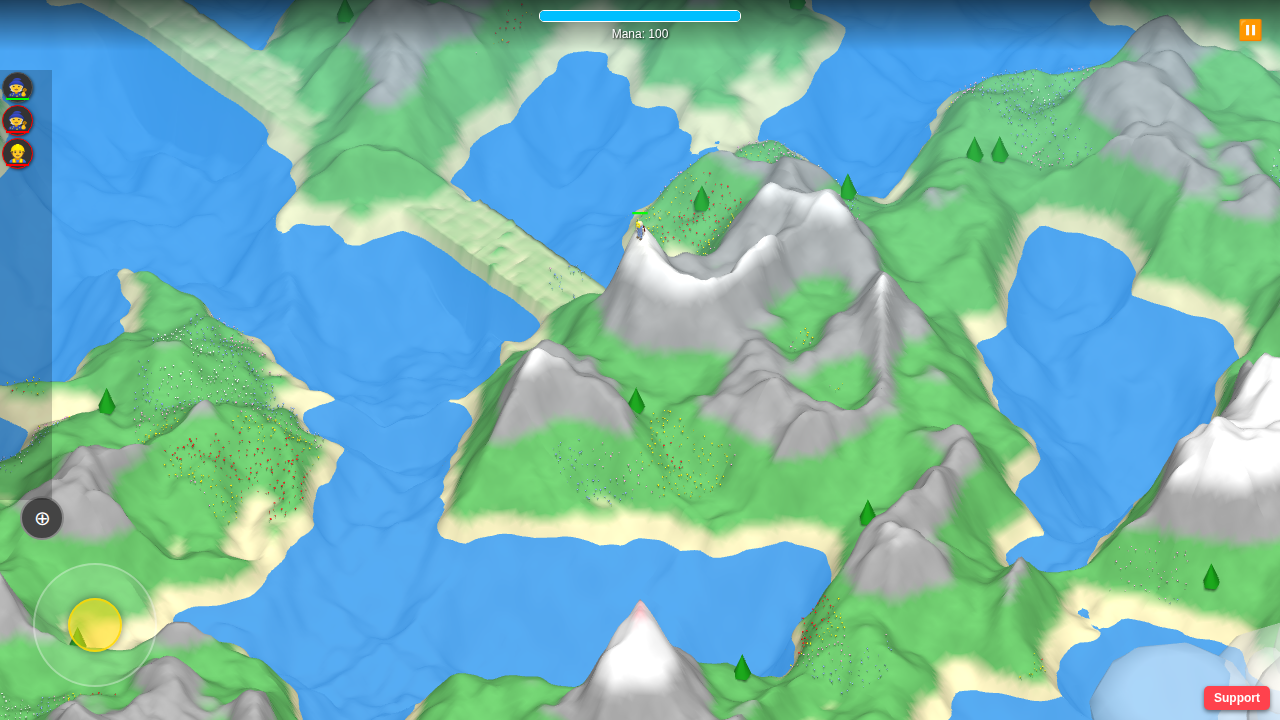
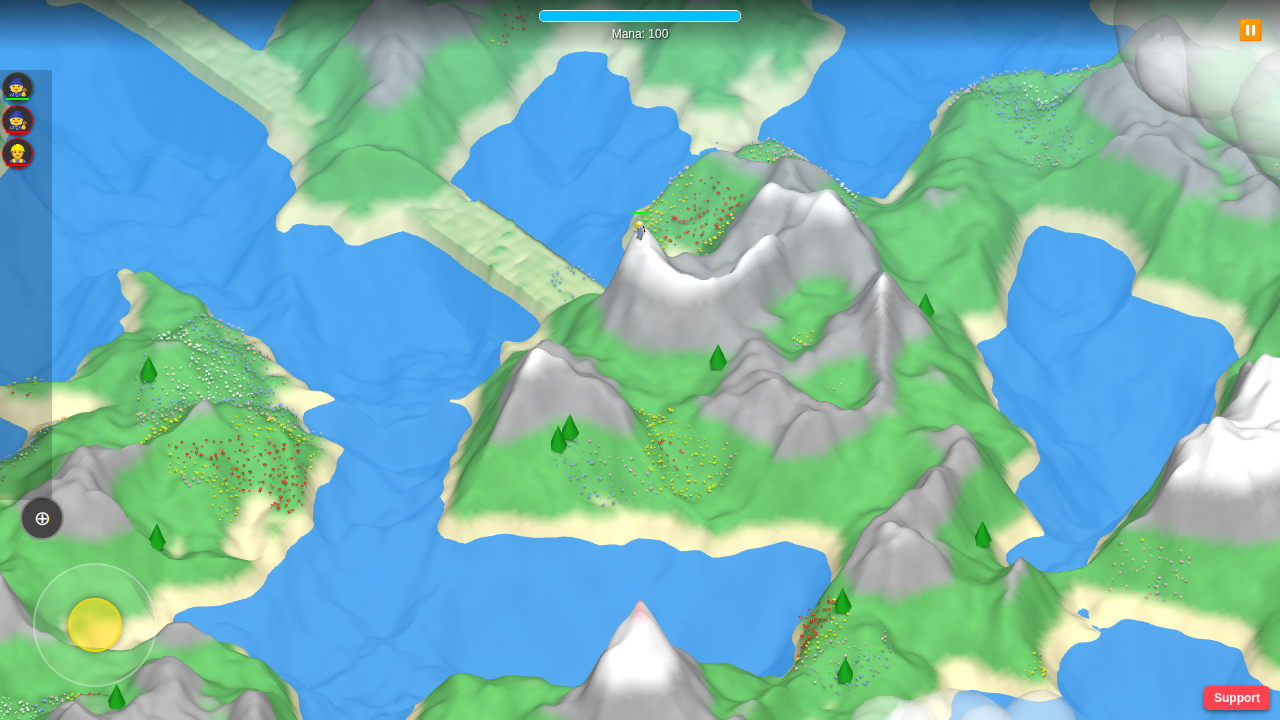
Improve flower visuals with realistic instancing
- Added `flowerCenter` geometry and material (yellow).
- Replaced the basic petal sphere with multiple fanned-out box petals.
- Updated `createChunk` to compose flowers using separate `InstancedMesh`es for stems, centers, and 5 distinct petals arranged radially.
- Updated `updateChunkDecorations` to calculate and apply matrices correctly for the new multi-part structure, including dynamic matrix application during runtime terrain changes.
- Ensured wind shaders apply uniformly across the entire flower construct.

diff --git a/PopulateTheRebeginning.html b/PopulateTheRebeginning.html
@@ -1108,7 +1108,8 @@ const AssetCache = {
         shield: new THREE.CylinderGeometry(0.25, 0.25, 0.05, 8),
         tool: new THREE.BoxGeometry(0.05, 0.4, 0.05),
         flowerStem: new THREE.CylinderGeometry(0.02, 0.02, 0.4, 4),
-        flowerPetal: new THREE.SphereGeometry(0.08, 4, 4)
+        flowerCenter: new THREE.SphereGeometry(0.04, 6, 6),
+        flowerPetal: new THREE.BoxGeometry(0.06, 0.02, 0.12)
     },
     mats: {
         skin: new THREE.MeshStandardMaterial({color: COLORS.skin, roughness: 0.7, metalness: 0.1}),
@@ -1122,7 +1123,8 @@ const AssetCache = {
         hpRed: new THREE.MeshBasicMaterial({color: 0xFF0000}),
         selectRing: new THREE.MeshBasicMaterial({color: 0x00FF00, side: THREE.DoubleSide}),
         marker: new THREE.MeshBasicMaterial({color: 0xFF0000}),
-        flowerStem: new THREE.MeshStandardMaterial({color: 0x228B22, roughness: 0.8, metalness: 0.1})
+        flowerStem: new THREE.MeshStandardMaterial({color: 0x228B22, roughness: 0.8, metalness: 0.1}),
+        flowerCenter: new THREE.MeshStandardMaterial({color: 0xFFFF00, roughness: 0.8, metalness: 0.1})
     }
 };
 
@@ -1136,6 +1138,7 @@ const FlowerMaterials = [
 
 AssetCache.mats.flowerPetalBase = FlowerMaterials[0].clone();
 AssetCache.mats.flowerPetalBase.color.setHex(0xffffff);
+AssetCache.geos.flowerPetal.translate(0, 0, 0.08);
 
 function addWindShader(material) {
     material.onBeforeCompile = function(shader) {
@@ -1165,6 +1168,7 @@ function addWindShader(material) {
 }
 
 addWindShader(AssetCache.mats.flowerStem);
+addWindShader(AssetCache.mats.flowerCenter);
 addWindShader(AssetCache.mats.flowerPetalBase);
 
 // --- js/utils.js ---
@@ -1718,18 +1722,24 @@ function updateChunkDecorations(chunk, cx, cz) {
     if (chunk.userData.flowers) {
         const flowers = chunk.userData.flowers;
         // Check if it's using the optimized structure or old array
-        if (flowers.data && flowers.stems && flowers.petals) {
+        if (flowers.data && flowers.stems && flowers.centers && flowers.petals) {
             const dataList = flowers.data;
             const stems = flowers.stems;
+            const centers = flowers.centers;
             const petals = flowers.petals;
+            const petalsPerFlower = flowers.petalsPerFlower || 5;
 
             const dummy = new THREE.Object3D();
             const stemDummy = new THREE.Object3D();
+            const centerDummy = new THREE.Object3D();
             const petalDummy = new THREE.Object3D();
+
             const stemMatrix = new THREE.Matrix4();
+            const centerMatrix = new THREE.Matrix4();
             const petalMatrix = new THREE.Matrix4();
 
             const basePosArray = stems.geometry.attributes.aBasePos.array;
+            const petalBasePosArray = petals.geometry.attributes.aBasePos.array;
 
             for (let i = 0; i < dataList.length; i++) {
                 const data = dataList[i];
@@ -1756,17 +1766,38 @@ function updateChunkDecorations(chunk, cx, cz) {
                 stemMatrix.multiplyMatrices(dummy.matrix, stemDummy.matrix);
                 stems.setMatrixAt(i, stemMatrix);
 
+                // Set center matrix
+                centerDummy.position.set(0, 0.4 * data.scaleFactor, 0);
+                centerDummy.rotation.set(0, 0, 0);
+                centerDummy.scale.set(data.scaleFactor, data.scaleFactor, data.scaleFactor);
+                centerDummy.updateMatrix();
+                centerMatrix.multiplyMatrices(dummy.matrix, centerDummy.matrix);
+                centers.setMatrixAt(i, centerMatrix);
+
                 // Set petal matrix
-                petalDummy.position.set(0, 0.4 * data.scaleFactor, 0);
-                petalDummy.rotation.set(0, 0, 0);
-                petalDummy.scale.set(data.scaleFactor, data.scaleFactor * data.squashY, data.scaleFactor);
-                petalDummy.updateMatrix();
-                petalMatrix.multiplyMatrices(dummy.matrix, petalDummy.matrix);
-                petals.setMatrixAt(i, petalMatrix);
+                for (let j = 0; j < petalsPerFlower; j++) {
+                    const petalIndex = i * petalsPerFlower + j;
+
+                    petalBasePosArray[petalIndex*3] = data.x;
+                    petalBasePosArray[petalIndex*3+1] = h;
+                    petalBasePosArray[petalIndex*3+2] = data.z;
+
+                    const angle = (j / petalsPerFlower) * Math.PI * 2;
+
+                    petalDummy.position.set(0, 0.4 * data.scaleFactor, 0);
+                    petalDummy.rotation.set(0, angle, 0);
+                    petalDummy.scale.set(data.scaleFactor, data.scaleFactor, data.scaleFactor);
+                    petalDummy.updateMatrix();
+
+                    petalMatrix.multiplyMatrices(dummy.matrix, petalDummy.matrix);
+                    petals.setMatrixAt(petalIndex, petalMatrix);
+                }
             }
             stems.instanceMatrix.needsUpdate = true;
+            centers.instanceMatrix.needsUpdate = true;
             petals.instanceMatrix.needsUpdate = true;
             stems.geometry.attributes.aBasePos.needsUpdate = true;
+            centers.geometry.attributes.aBasePos.needsUpdate = true;
             petals.geometry.attributes.aBasePos.needsUpdate = true;
         } else if (Array.isArray(flowers)) {
             // Fallback for old save games / structure (if any remain)
@@ -1886,24 +1917,36 @@ function createChunk(cx, cz) {
         const dummy = new THREE.Object3D();
 
         const stemGeo = AssetCache.geos.flowerStem.clone();
+        const centerGeo = AssetCache.geos.flowerCenter.clone();
         const petalGeo = AssetCache.geos.flowerPetal.clone();
 
-        const stemInstancedMesh = new THREE.InstancedMesh(stemGeo, AssetCache.mats.flowerStem, flowerDataList.length);
+        const numFlowers = flowerDataList.length;
+        const petalsPerFlower = 5;
+        const totalPetals = numFlowers * petalsPerFlower;
+
+        const stemInstancedMesh = new THREE.InstancedMesh(stemGeo, AssetCache.mats.flowerStem, numFlowers);
         stemInstancedMesh.castShadow = true;
 
-        const petalInstancedMesh = new THREE.InstancedMesh(petalGeo, AssetCache.mats.flowerPetalBase, flowerDataList.length);
+        const centerInstancedMesh = new THREE.InstancedMesh(centerGeo, AssetCache.mats.flowerCenter, numFlowers);
+        centerInstancedMesh.castShadow = true;
+
+        const petalInstancedMesh = new THREE.InstancedMesh(petalGeo, AssetCache.mats.flowerPetalBase, totalPetals);
         petalInstancedMesh.castShadow = true;
 
         const tempColor = new THREE.Color();
 
         const stemDummy = new THREE.Object3D();
+        const centerDummy = new THREE.Object3D();
         const petalDummy = new THREE.Object3D();
+
         const stemMatrix = new THREE.Matrix4();
+        const centerMatrix = new THREE.Matrix4();
         const petalMatrix = new THREE.Matrix4();
 
-        const basePosArray = new Float32Array(flowerDataList.length * 3);
+        const basePosArray = new Float32Array(numFlowers * 3);
+        const petalBasePosArray = new Float32Array(totalPetals * 3);
 
-        for (let i = 0; i < flowerDataList.length; i++) {
+        for (let i = 0; i < numFlowers; i++) {
             const data = flowerDataList[i];
 
             basePosArray[i*3] = data.x;
@@ -1921,33 +1964,55 @@ function createChunk(cx, cz) {
             stemDummy.rotation.set(0, 0, 0);
             stemDummy.scale.set(1.0, data.scaleFactor, 1.0);
             stemDummy.updateMatrix();
-            // stemWorldMatrix = flowerGroupMatrix * stemLocalMatrix
             stemMatrix.multiplyMatrices(dummy.matrix, stemDummy.matrix);
             stemInstancedMesh.setMatrixAt(i, stemMatrix);
 
-            // Set petal matrix
-            petalDummy.position.set(0, 0.4 * data.scaleFactor, 0);
-            petalDummy.rotation.set(0, 0, 0);
-            petalDummy.scale.set(data.scaleFactor, data.scaleFactor * data.squashY, data.scaleFactor);
-            petalDummy.updateMatrix();
-            petalMatrix.multiplyMatrices(dummy.matrix, petalDummy.matrix);
-            petalInstancedMesh.setMatrixAt(i, petalMatrix);
+            // Set center matrix
+            centerDummy.position.set(0, 0.4 * data.scaleFactor, 0);
+            centerDummy.rotation.set(0, 0, 0);
+            centerDummy.scale.set(data.scaleFactor, data.scaleFactor, data.scaleFactor);
+            centerDummy.updateMatrix();
+            centerMatrix.multiplyMatrices(dummy.matrix, centerDummy.matrix);
+            centerInstancedMesh.setMatrixAt(i, centerMatrix);
 
             // Set petal color
             const petalColor = FlowerMaterials[data.cIndex].color;
             tempColor.copy(petalColor);
-            petalInstancedMesh.setColorAt(i, tempColor);
+
+            // Set petal matrices
+            for (let j = 0; j < petalsPerFlower; j++) {
+                const petalIndex = i * petalsPerFlower + j;
+
+                petalBasePosArray[petalIndex*3] = data.x;
+                petalBasePosArray[petalIndex*3+1] = data.h;
+                petalBasePosArray[petalIndex*3+2] = data.z;
+
+                const angle = (j / petalsPerFlower) * Math.PI * 2;
+
+                petalDummy.position.set(0, 0.4 * data.scaleFactor, 0);
+                petalDummy.rotation.set(0, angle, 0); // Fan out around Y axis
+                petalDummy.scale.set(data.scaleFactor, data.scaleFactor, data.scaleFactor);
+                petalDummy.updateMatrix();
+
+                petalMatrix.multiplyMatrices(dummy.matrix, petalDummy.matrix);
+                petalInstancedMesh.setMatrixAt(petalIndex, petalMatrix);
+                petalInstancedMesh.setColorAt(petalIndex, tempColor);
+            }
         }
 
         stemInstancedMesh.geometry.setAttribute('aBasePos', new THREE.InstancedBufferAttribute(basePosArray, 3));
-        petalInstancedMesh.geometry.setAttribute('aBasePos', new THREE.InstancedBufferAttribute(basePosArray, 3));
+        centerInstancedMesh.geometry.setAttribute('aBasePos', new THREE.InstancedBufferAttribute(basePosArray, 3));
+        petalInstancedMesh.geometry.setAttribute('aBasePos', new THREE.InstancedBufferAttribute(petalBasePosArray, 3));
 
         grp.add(stemInstancedMesh);
+        grp.add(centerInstancedMesh);
         grp.add(petalInstancedMesh);
         grp.userData.flowers = {
             data: flowerDataList,
             stems: stemInstancedMesh,
-            petals: petalInstancedMesh
+            centers: centerInstancedMesh,
+            petals: petalInstancedMesh,
+            petalsPerFlower: petalsPerFlower
         };
     }
 
